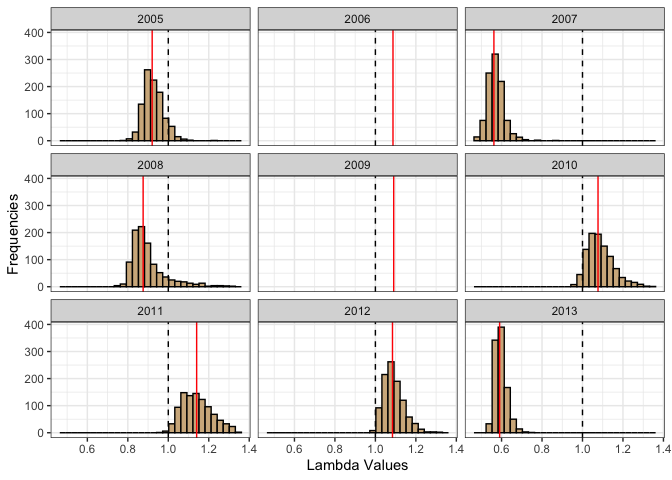
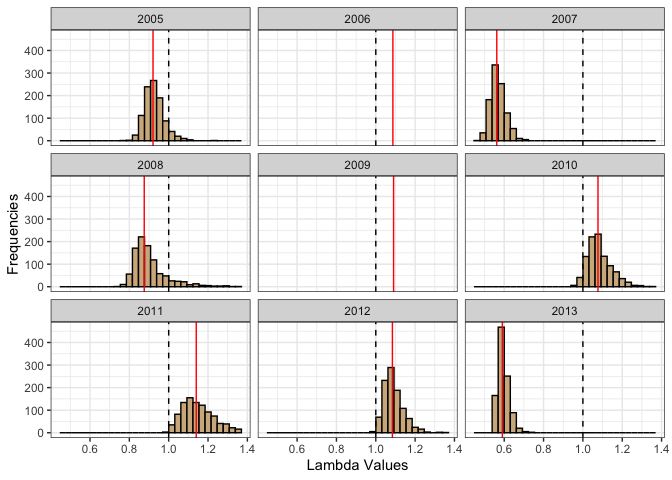
fixing up names in recruitment table

diff --git a/README.md b/README.md
@@ -56,7 +56,7 @@ recruitment_est <-
   bbr_recruitment(
     bbourecruit_c,
     p_females = 0.65,
-    sexratio = 0.5,
+    sex_ratio = 0.5,
     variance = "binomial"
   )
 bbr_plot_recruitment(recruitment_est)
@@ -85,17 +85,17 @@ lambda_est <- bbr_lambda_simulate(recruitment_est, survival_est)
 summary <- bbr_lambda_summarize(lambda_est)
 summary
 #> # A tibble: 9 × 13
-#>   PopulationName  Year     S     R Lambda SE_Lambda Lambda_LCL Lambda_UCL
+#>   PopulationName  Year     S     R Lambda Lambda_SE Lambda_CIL Lambda_CIU
 #>   <chr>          <int> <dbl> <dbl>  <dbl>     <dbl>      <dbl>      <dbl>
-#> 1 C               2005 0.832 0.096  0.92      0.05       0.845      1.03 
+#> 1 C               2005 0.832 0.096  0.92      0.049      0.846      1.04 
 #> 2 C               2006 1     0.08   1.09     NA         NA         NA    
-#> 3 C               2007 0.524 0.068  0.562     0.041      0.503      0.66 
-#> 4 C               2008 0.824 0.059  0.876     0.142      0.798      1.27 
+#> 3 C               2007 0.524 0.068  0.562     0.039      0.503      0.653
+#> 4 C               2008 0.824 0.059  0.876     0.123      0.801      1.25 
 #> 5 C               2009 1     0.083  1.09     NA         NA         NA    
-#> 6 C               2010 0.926 0.14   1.08      0.069      0.992      1.26 
-#> 7 C               2011 0.96  0.158  1.14      0.095      1.03       1.39 
-#> 8 C               2012 0.963 0.112  1.08      0.05       1.02       1.20 
-#> 9 C               2013 0.512 0.133  0.591     0.029      0.553      0.665
+#> 6 C               2010 0.926 0.14   1.08      0.062      0.99       1.23 
+#> 7 C               2011 0.96  0.158  1.14      0.109      1.03       1.42 
+#> 8 C               2012 0.963 0.112  1.08      0.05       1.01       1.21 
+#> 9 C               2013 0.512 0.133  0.591     0.029      0.554      0.663
 #> # ℹ 5 more variables: Prop_LGT1 <dbl>, meanSimSurv <dbl>, meanRsim <dbl>,
 #> #   meanSimLambda <dbl>, medianSimLambda <dbl>
 bbr_plot_lambda(lambda_est)
